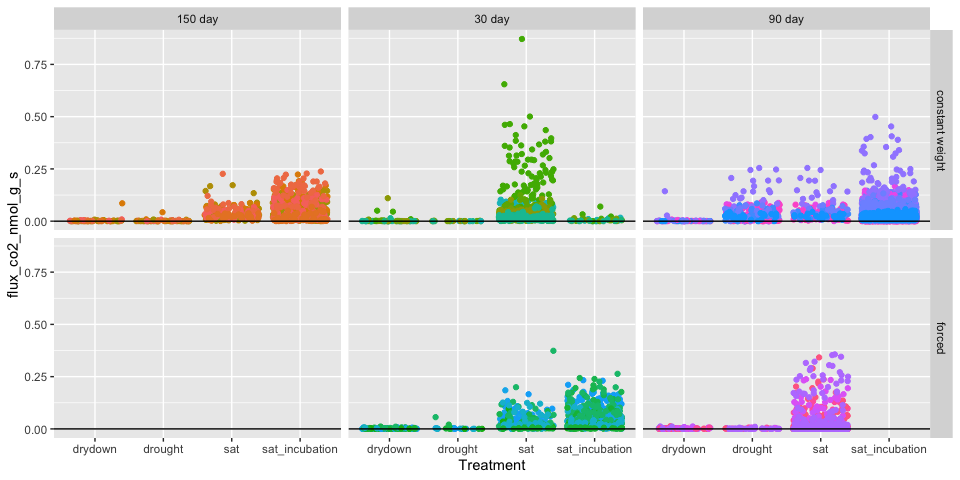
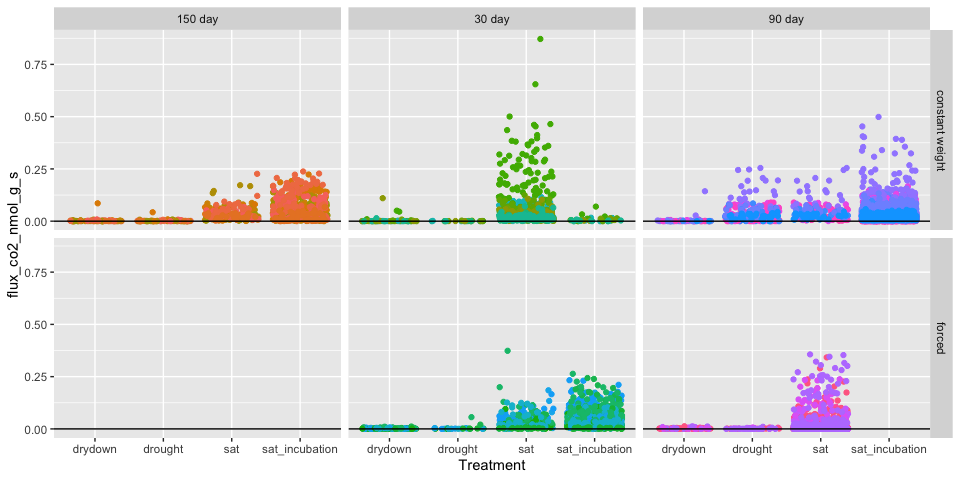
plot egm-co2 for sr normalized to g

diff --git a/markdown/3e-picarro_markdown.md b/markdown/3e-picarro_markdown.md
@@ -94,9 +94,7 @@ CO2: nmol\_g\_s
 
 ## all cores
 
-![](images-markdown-picarro/egm_cores-1.png)<!-- -->![](images-markdown-picarro/egm_cores-2.png)<!-- -->
-
-![](images-markdown-picarro/egm_cores_mass-1.png)<!-- -->
+![](images-markdown-picarro/egm_cores_mass-1.png)<!-- -->![](images-markdown-picarro/egm_cores_mass-2.png)<!-- -->
 
 -----
 
@@ -104,7 +102,7 @@ CO2: nmol\_g\_s
 
 <summary>Session Info</summary>
 
-Date Run: 2020-07-24
+Date Run: 2020-09-02
 
     #> R version 4.0.2 (2020-06-22)
     #> Platform: x86_64-apple-darwin17.0 (64-bit)
@@ -121,18 +119,18 @@ Date Run: 2020-07-24
     #> [1] stats     graphics  grDevices utils     datasets  methods   base     
     #> 
     #> other attached packages:
-    #>  [1] picarro.data_0.1.1 forcats_0.5.0      stringr_1.4.0      dplyr_1.0.0       
-    #>  [5] purrr_0.3.4        readr_1.3.1        tidyr_1.1.0        tibble_3.0.3      
+    #>  [1] picarro.data_0.1.1 forcats_0.5.0      stringr_1.4.0      dplyr_1.0.1       
+    #>  [5] purrr_0.3.4        readr_1.3.1        tidyr_1.1.1        tibble_3.0.3      
     #>  [9] tidyverse_1.3.0    drake_7.12.4       multcomp_1.4-13    TH.data_1.0-10    
-    #> [13] MASS_7.3-51.6      survival_3.1-12    mvtnorm_1.1-1      agricolae_1.3-3   
-    #> [17] car_3.0-8          carData_3.0-4      nlme_3.1-148       stringi_1.4.6     
+    #> [13] MASS_7.3-51.6      survival_3.2-3     mvtnorm_1.1-1      agricolae_1.3-3   
+    #> [17] car_3.0-9          carData_3.0-4      nlme_3.1-148       stringi_1.4.6     
     #> [21] ggExtra_0.9        ggalt_0.4.0        ggplot2_3.3.2      knitr_1.29        
-    #> [25] qwraps2_0.4.2      cowplot_1.0.0      data.table_1.12.8  luzlogr_0.2.0     
+    #> [25] qwraps2_0.4.2      cowplot_1.0.0      data.table_1.13.0  luzlogr_0.2.0     
     #> [29] lubridate_1.7.9    readxl_1.3.1       here_0.1          
     #> 
     #> loaded via a namespace (and not attached):
     #>  [1] colorspace_1.4-1   ellipsis_0.3.1     rio_0.5.16         rprojroot_1.3-2   
-    #>  [5] fs_1.4.2           rstudioapi_0.11    farver_2.0.3       fansi_0.4.1       
+    #>  [5] fs_1.5.0           rstudioapi_0.11    farver_2.0.3       fansi_0.4.1       
     #>  [9] xml2_1.3.2         codetools_0.2-16   splines_4.0.2      extrafont_0.17    
     #> [13] jsonlite_1.7.0     broom_0.7.0        Rttf2pt1_1.3.8     cluster_2.1.0     
     #> [17] dbplyr_1.4.4       shiny_1.5.0        httr_1.4.2         compiler_4.0.2    
@@ -140,12 +138,12 @@ Date Run: 2020-07-24
     #> [25] cli_2.0.2          later_1.1.0.1      htmltools_0.5.0    prettyunits_1.1.1 
     #> [29] tools_4.0.2        igraph_1.2.5       gtable_0.3.0       glue_1.4.1        
     #> [33] maps_3.3.0         Rcpp_1.0.5         cellranger_1.1.0   vctrs_0.3.2       
-    #> [37] extrafontdb_1.0    xfun_0.15          rvest_0.3.5        openxlsx_4.1.5    
+    #> [37] extrafontdb_1.0    xfun_0.16          rvest_0.3.6        openxlsx_4.1.5    
     #> [41] mime_0.9           miniUI_0.1.1.1     lifecycle_0.2.0    zoo_1.8-8         
     #> [45] scales_1.1.1       hms_0.5.3          promises_1.1.1     parallel_4.0.2    
     #> [49] proj4_1.0-10       sandwich_2.5-1     RColorBrewer_1.1-2 yaml_2.2.1        
     #> [53] curl_4.3           labelled_2.5.0     highr_0.8          klaR_0.6-15       
-    #> [57] AlgDesign_1.2.0    filelock_1.0.2     zip_2.0.4          storr_1.2.1       
+    #> [57] AlgDesign_1.2.0    filelock_1.0.2     zip_2.1.0          storr_1.2.1       
     #> [61] rlang_0.4.7        pkgconfig_2.0.3    evaluate_0.14      lattice_0.20-41   
     #> [65] labeling_0.3       tidyselect_1.1.0   magrittr_1.5       R6_2.4.1          
     #> [69] generics_0.0.2     base64url_1.4      combinat_0.0-8     txtq_0.2.3        
